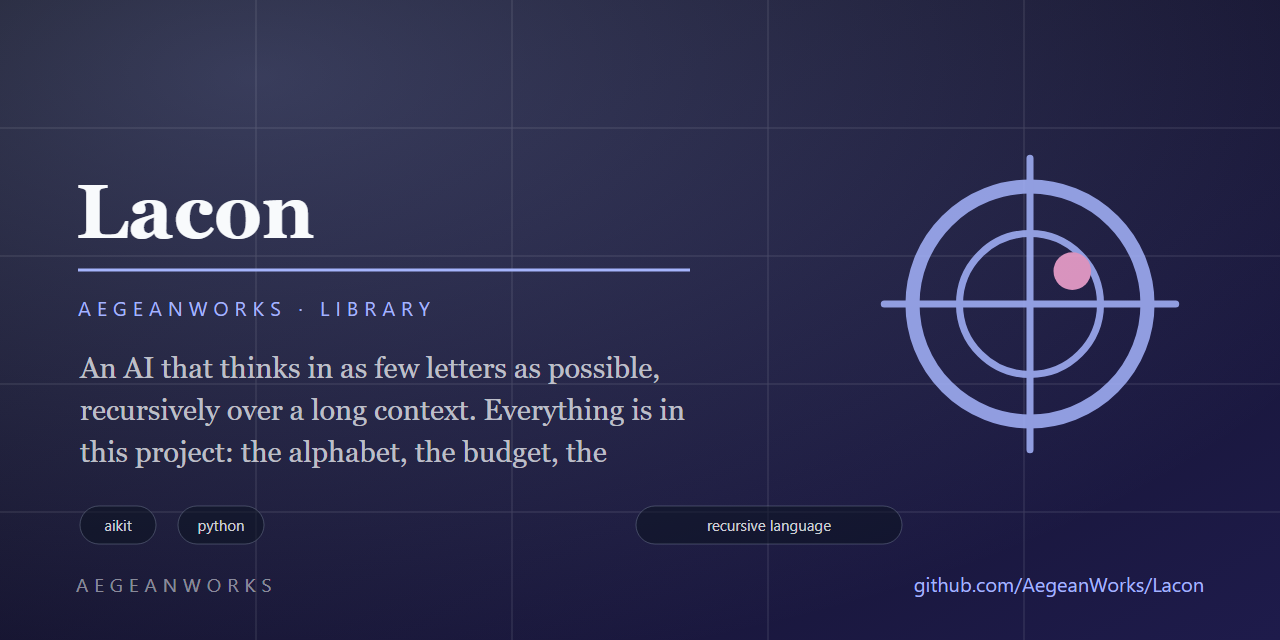
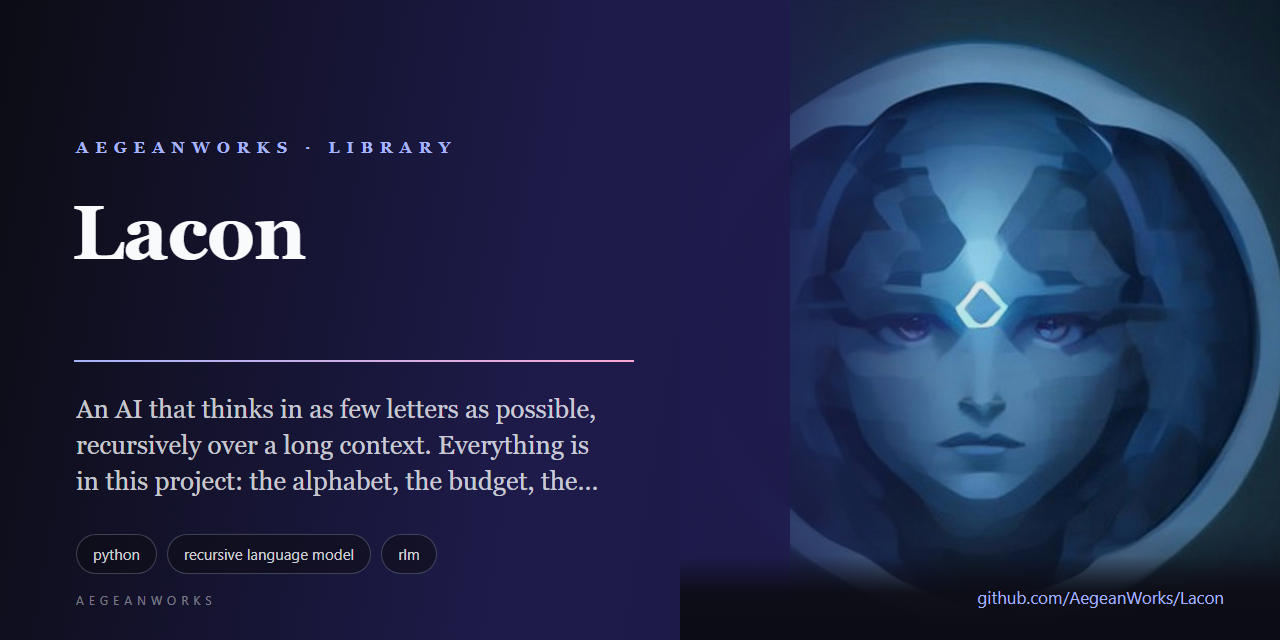
feat(brand): replace procedural marks with reviewed AI-art identities

diff --git a/README.md b/README.md
@@ -1,8 +1,8 @@
 # lacon
 
 <!-- aegean:media:start -->
-<p align="center"><img src="assets/logo.svg" alt="Lacon logo" width="96" height="96"></p>
-<p align="center"><img src="assets/social-preview.svg" alt="Lacon social preview" width="100%"></p>
+<p align="center"><img src="assets/logo.png" alt="Lacon logo" width="96" height="96"></p>
+<p align="center"><img src="assets/social-preview.png" alt="Lacon social preview" width="100%"></p>
 <!-- aegean:media:end -->
 
 [![Built with AIKit](https://img.shields.io/badge/built%20with-AIKit-6f42c1)](https://github.com/AegeanWorks/AIKit)
